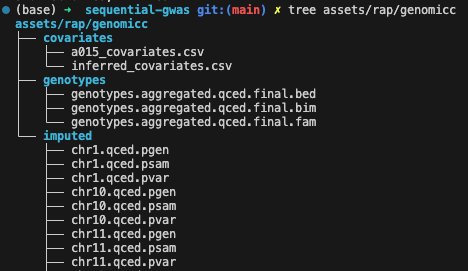
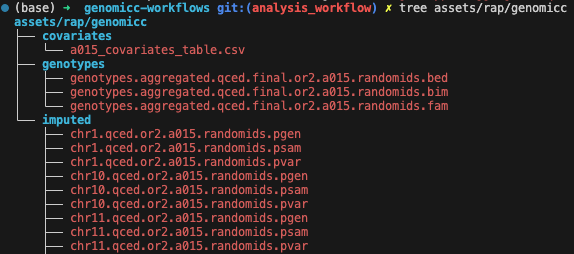
update upload docs

Changed region(s): [[0.0, 0.0, 0.9872, 1.0]]

diff --git a/docs/src/ukb_merge.md b/docs/src/ukb_merge.md
@@ -22,9 +22,7 @@ In particular we need to populate the `genomicc` and `kgp` subfolders as display
 We will need the following GenOMICC data, at the present time, the name of the file does not matter since it seems impossible to reference a file by its path on the RAP, instead we will have to use file IDs: 
 
 - genotypes: Output by [Combining GenOMICC Datasets](@ref).
-- covariates: 
-  - General covariates provided by Dominique, it should contain an `age_years` and a `sex` column.
-  - Inferred covariates output by [Combining GenOMICC Datasets](@ref) containing ancestry estimates.
+- covariates (provided by Dominique): It should contain the following columns: `IID`,`FID`,`PRIM_DIAGNOSIS_ODAP`,`COHORT`,`ISARIC_MAX_SEVERITY_SCORE`,`SEX_SELF_REPORTED`,`AGE_YEARS_AT_RECRUITMENT`,`SUPERPOPULATION`
 - imputed genotypes: Output by [GenOMICC Genotypes Imputation](@ref).
 
 I recommend to organise them as follows:
@@ -53,9 +51,9 @@ wget -O assets/rap/Homo_sapiens_assembly38.fasta https://storage.googleapis.com/
 Since this is a lot of data, we need to use the [upload agent](https://documentation.dnanexus.com/downloads#installing-the-upload-agent). Asumming `ua` is in your path, run:
 
 ```bash
-export PROJECT_ID=PPP
 export AUTH_TOKEN=XXX
-ua --project $PROJECT_ID --auth-token $AUTH_TOKEN --folder /assets assets/rap/ --recursive
+export PROJECT_ID=project-J0pkqyQJpYQ133JG1p2J1qzv
+ua --project $PROJECT_ID --auth-token $AUTH_TOKEN --recursive --do-not-compress --folder /assets assets/rap/
 ```
 
 ## 2. Extracting Phenotypes
